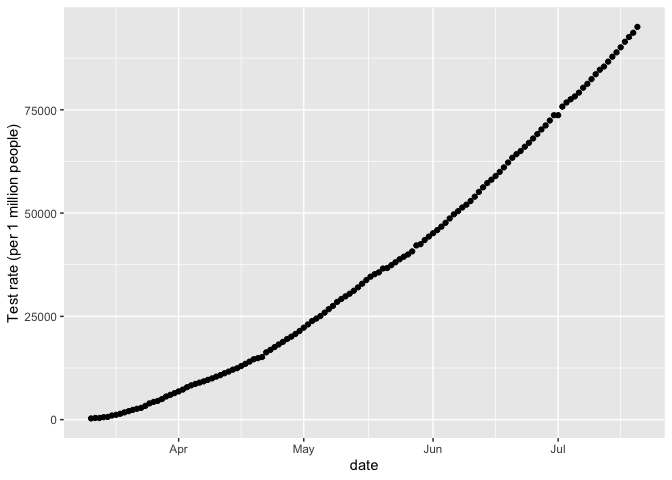
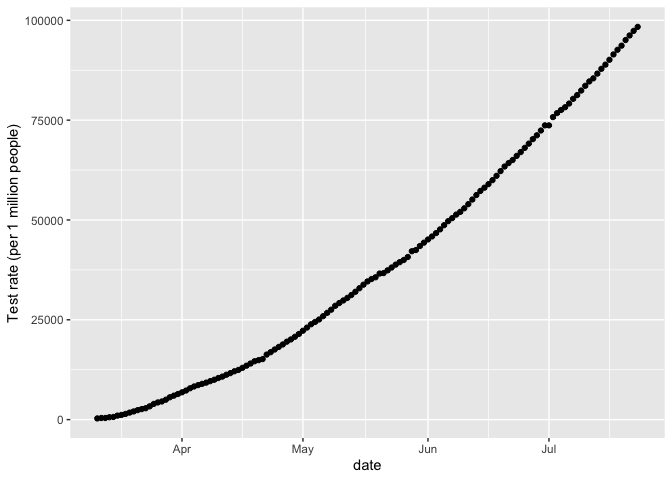
Update

diff --git a/Writeup.md b/Writeup.md
@@ -1,9 +1,7 @@
-Test Positivity Rate writeup
+Test Positivity Rate Writeup
 ================
 Geetha Jeyapragasan
 July 14 2020
-
-## Test Positivity Rates
 
 The test positivity rate (TPR) is the percentage of tests that are
 positive.For COVID-19, this metric is being used to evaluate testing
@@ -19,29 +17,62 @@ direct indicator of testing capacity. The test positivity rate has been
 used as a measure of prevalence for outbreaks that occur in regions with
 limited or non-existent health surveillance.
 
+## Factors that Affect the TPR
+
+1.  Type of tests included in metric. Some regions are not transparent
+    in the technologies used for COVID-19 tests, or aggregate PCR and
+    antibody tests making the data less meaningful.
+2.  Whether the numbers are \# of performed tests or \# of individuals
+    tested.
+3.  Whether negative results are included, and how pending results or
+    inconclusive results are reported.
+4.  Are tests from private labs included? Not all labs report to the
+    central authority, or are specifically not included in the testing
+    data (i.e. US CDC)
+5.  Testing eligibility criteria
+6.  Whether the time period of cumulative counts if daily counts are not
+    being reported.
+
 ### How the TPR is being used and interpreted
 
-* As of MAY 12, The WHO is currently advising reopening measures based on the TPR. 
-The test positivity rate should be below 5% for at least 14 days before reopening, suggesting a
-TPR between [3-12%](https://www.who.int/news-room/commentaries/detail/advice-on-the-use-of-point-of-care-immunodiagnostic-tests-for-covid-19) indicates a region is conducting adequate testing. There is a significant difference in TPR between countries, with Australia, South
-Korea, and Uruguay’s positivity rates below 1%, while Argentina and
-Mexico have a 28% and a 66% positivity rate respectively.
-
-* The TPR was used to compare the temporal trends and mitigation
-strategies of COVID-19 between [Seattle and
-Washington](https://jamanetwork.com/journals/jama/fullarticle/2766035).
-The paper concluded due to the constant testing volume over the study
-period, the TPR trend suggests early and aggressive physical distancing
-measures influenced the course of the outbreak. 
-* TPR as an good indicator
-of robust testing and outbreak control was [criticized in
-India](https://thewire.in/health/india-covid-19-testing-contradiction-rate)
-due to the extremely low testing volume (India is conducting 9.99 tests
-per 1000 people while Australia conducts 136 tests per 1000). Though low
-testing rates did not fully account for the low TPR, a low TPR in
-regions with low testing rates should be interpreted differently than
-regions with a high testing rate. 
-* In the state of Virginia, the [antibody test results were combined with the viral PCR tests affecting the TPR](https://www.theatlantic.com/health/archive/2020/05/covid-19-tests-combine-virginia/611620/). With the state using the low TPR to justify the loosening of lockdown restrictions,types of tests included in the metric should be considered when interpreting the value and used for decision making. 
+  - As of May 12, The WHO is currently advising reopening measures based
+    on the TPR. The test positivity rate should be below 5% for at least
+    14 days before reopening, suggesting a TPR between
+    [3-12%](https://www.who.int/news-room/commentaries/detail/advice-on-the-use-of-point-of-care-immunodiagnostic-tests-for-covid-19)
+    indicates a region is conducting adequate testing.
+  - The [CDC opening up
+    plan](https://www.cdc.gov/coronavirus/2019-ncov/downloads/php/CDC-Activities-Initiatives-for-COVID-19-Response.pdf)
+    uses the TPR to assess testing program robustness. The criteria
+    proposes a \<20% TPR to enter Phase 1, \<15% to enter Phase 2 and
+    \<10% to enter Phase 3 (maintaining these values for at least 14
+    days). \*\* Multi-day increases in TPR with stable or increasing
+    testing suggest potential a potential rebound that should be
+    investigated.
+  - The TPR was used to compare the temporal trends and mitigation
+    strategies of COVID-19 between [Seattle and
+    Washington](https://jamanetwork.com/journals/jama/fullarticle/2766035)
+    . The paper concluded due to the constant testing volume over the
+    study period, the TPR trend suggests early and aggressive physical
+    distancing measures influenced the course of the outbreak.
+  - TPR as an good indicator of robust testing and outbreak control was
+    [criticized in
+    India](https://thewire.in/health/india-covid-19-testing-contradiction-rate)
+    due to the extremely low testing volume (India is conducting 9.99
+    tests per 1000 people while Australia conducts 136 tests per 1000).
+    Though low testing rates did not fully account for the low TPR, a
+    low TPR in regions with low testing rates should be interpreted
+    differently than regions with a high testing rate.
+  - The [CDC’s initial
+    mixup](https://www.theatlantic.com/health/archive/2020/05/cdc-and-states-are-misreporting-covid-19-test-data-pennsylvania-georgia-texas/611935/)
+    of viral and antibody tests reported together caused positivity
+    rates to appear low. Several states such as Pennsylvania, Texas,
+    Georgia, Vermont, and Virginia have used the aggregated TPR to guide
+    reopening. In the state of Virginia, the antibody test results were
+    combined with the viral PCR tests affecting the TPR. With the state
+    using the low TPR to justify the loosening of lockdown
+    restrictions,types of tests included in the metric should be
+    considered when interpreting the value and used for decision making.
+    Virginia has since separated the tests following this article.
 
 The WHO recommendation for malaria program managers suggest the use of
 TPR instead of incidence rates as a measurement if the following 3
@@ -55,57 +86,64 @@ account, reporting completeness may be a significant barrier. The TPR is
 less sensitive to these factors, through it can still be distorted and
 misinterpreted.
 
-
 ``` r
 summary(national)
 ```
 
     ##                        prname         date               numconf      
-    ##  Canada                   :132   Min.   :2020-03-11   Min.   :   103  
-    ##  Alberta                  :  0   1st Qu.:2020-04-12   1st Qu.: 25338  
-    ##  British Columbia         :  0   Median :2020-05-15   Median : 75228  
-    ##  Manitoba                 :  0   Mean   :2020-05-15   Mean   : 63688  
-    ##  New Brunswick            :  0   3rd Qu.:2020-06-17   3rd Qu.: 99934  
-    ##  Newfoundland and Labrador:  0   Max.   :2020-07-20   Max.   :111113  
+    ##  Canada                   :135   Min.   :2020-03-11   Min.   :   103  
+    ##  Alberta                  :  0   1st Qu.:2020-04-13   1st Qu.: 26354  
+    ##  British Columbia         :  0   Median :2020-05-17   Median : 76991  
+    ##  Manitoba                 :  0   Mean   :2020-05-17   Mean   : 64765  
+    ##  New Brunswick            :  0   3rd Qu.:2020-06-19   3rd Qu.:100813  
+    ##  Newfoundland and Labrador:  0   Max.   :2020-07-23   Max.   :112659  
     ##  (Other)                  :  0                                        
-    ##     numprob         numdeaths         numtotal        numtested      
-    ##  Min.   :  0.00   Min.   :   2.0   Min.   :   103   Min.   :  11023  
-    ##  1st Qu.: 11.00   1st Qu.: 764.2   1st Qu.: 25356   1st Qu.: 433656  
-    ##  Median : 11.00   Median :5620.5   Median : 75238   Median :1253500  
-    ##  Mean   : 22.41   Mean   :4768.1   Mean   : 63710   Mean   :1406338  
-    ##  3rd Qu.: 11.25   3rd Qu.:8265.5   3rd Qu.: 99945   3rd Qu.:2264721  
-    ##  Max.   :833.00   Max.   :8858.0   Max.   :111124   Max.   :3573630  
-    ##                                                                      
+    ##     numprob        numdeaths         numtotal        numtested      
+    ##  Min.   :  0.0   Min.   :   2.0   Min.   :   103   Min.   :  11023  
+    ##  1st Qu.: 11.0   1st Qu.: 841.5   1st Qu.: 26372   1st Qu.: 446229  
+    ##  Median : 11.0   Median :5782.0   Median : 77002   Median :1300729  
+    ##  Mean   : 22.2   Mean   :4859.2   Mean   : 64788   Mean   :1456374  
+    ##  3rd Qu.: 12.5   3rd Qu.:8378.0   3rd Qu.:100824   3rd Qu.:2361172  
+    ##  Max.   :833.0   Max.   :8874.0   Max.   :112672   Max.   :3697322  
+    ##                                                                     
     ##    numrecover    percentrecover       ratetested       numtoday     
-    ##  Min.   :  230   Length:132         Min.   :  293   Min.   :   0.0  
-    ##  1st Qu.:25740   Class :character   1st Qu.:11536   1st Qu.: 355.2  
-    ##  Median :47824   Mode  :character   Median :33348   Median : 746.5  
-    ##  Mean   :44957                      Mean   :37413   Mean   : 841.3  
-    ##  3rd Qu.:65174                      3rd Qu.:60249   3rd Qu.:1257.5  
-    ##  Max.   :97474                      Max.   :95071   Max.   :2760.0  
+    ##  Min.   :  230   Length:135         Min.   :  293   Min.   :   0.0  
+    ##  1st Qu.:26505   Class :character   1st Qu.:11871   1st Qu.: 363.5  
+    ##  Median :48892   Mode  :character   Median :34604   Median : 722.0  
+    ##  Mean   :46448                      Mean   :38744   Mean   : 834.0  
+    ##  3rd Qu.:65850                      3rd Qu.:62815   3rd Qu.:1252.5  
+    ##  Max.   :98519                      Max.   :98361   Max.   :2760.0  
     ##  NA's   :28                                                         
-    ##   percentoday        ratetotal        ratedeaths      deathstoday    
-    ##  Min.   : 0.0000   Min.   :  0.27   Min.   : 0.005   Min.   :  0.00  
-    ##  1st Qu.: 0.4175   1st Qu.: 67.46   1st Qu.: 2.033   1st Qu.: 10.75  
-    ##  Median : 1.5550   Median :200.16   Median :14.953   Median : 50.00  
-    ##  Mean   : 6.0755   Mean   :169.49   Mean   :12.685   Mean   : 67.09  
-    ##  3rd Qu.: 5.9000   3rd Qu.:265.88   3rd Qu.:21.989   3rd Qu.:116.00  
-    ##  Max.   :46.2300   Max.   :295.63   Max.   :23.565   Max.   :222.00  
-    ##                                                                      
+    ##   percentoday       ratetotal        ratedeaths     deathstoday    
+    ##  Min.   : 0.000   Min.   :  0.27   Min.   : 0.01   Min.   :  0.00  
+    ##  1st Qu.: 0.415   1st Qu.: 70.16   1st Qu.: 2.24   1st Qu.: 10.00  
+    ##  Median : 1.500   Median :204.85   Median :15.38   Median : 49.00  
+    ##  Mean   : 5.951   Mean   :172.36   Mean   :12.93   Mean   : 65.72  
+    ##  3rd Qu.: 5.635   3rd Qu.:268.23   3rd Qu.:22.29   3rd Qu.:114.50  
+    ##  Max.   :46.230   Max.   :299.75   Max.   :23.61   Max.   :222.00  
+    ##                                                                    
     ##   percentdeath    testedtoday    recoveredtoday    percentactive  
     ##  Min.   :0.790   Min.   :    0   Min.   :    0.0   Min.   : 3.78  
-    ##  1st Qu.:3.015   1st Qu.:16681   1st Qu.:  368.8   1st Qu.:29.56  
-    ##  Median :7.460   Median :27068   Median :  689.5   Median :42.88  
-    ##  Mean   :5.836   Mean   :27073   Mean   :  991.1   Mean   :53.80  
-    ##  3rd Qu.:8.170   3rd Qu.:36788   3rd Qu.:  919.5   3rd Qu.:84.27  
+    ##  1st Qu.:3.190   1st Qu.:16768   1st Qu.:  367.5   1st Qu.:28.96  
+    ##  Median :7.480   Median :27304   Median :  680.0   Median :42.43  
+    ##  Mean   :5.882   Mean   :27388   Mean   :  973.1   Mean   :52.71  
+    ##  3rd Qu.:8.170   3rd Qu.:37648   3rd Qu.:  908.0   3rd Qu.:83.67  
     ##  Max.   :8.330   Max.   :78091   Max.   :23853.0   Max.   :99.21  
     ##                                  NA's   :28                       
+    ##    numactive       rateactive    numtotal_last14 numdeaths_last14
+    ##  Min.   :  101   Min.   : 0.27   Min.   : 2715   Min.   :  25.0  
+    ##  1st Qu.:15595   1st Qu.:41.48   1st Qu.: 5199   1st Qu.: 260.2  
+    ##  Median :27784   Median :73.91   Median :12468   Median : 850.0  
+    ##  Mean   :23114   Mean   :61.49   Mean   :12503   Mean   :1011.7  
+    ##  3rd Qu.:31700   3rd Qu.:84.33   3rd Qu.:18799   3rd Qu.:1616.0  
+    ##  Max.   :35001   Max.   :93.11   Max.   :24688   Max.   :2311.0  
+    ##                                  NA's   :13      NA's   :13      
     ##       tpr       
     ##  Min.   :0.888  
-    ##  1st Qu.:3.507  
-    ##  Median :4.845  
-    ##  Mean   :4.590  
-    ##  3rd Qu.:5.927  
+    ##  1st Qu.:3.428  
+    ##  Median :4.776  
+    ##  Mean   :4.557  
+    ##  3rd Qu.:5.912  
     ##  Max.   :6.742  
     ## 
 
@@ -115,4 +153,16 @@ summary(national)
 
 ### Canada Testing Rates
 
-![](Writeup_files/figure-gfm/pressure-1.png)<!-- -->
+![](Writeup_files/figure-gfm/pressure-1.png)<!-- --> \#\#\# Test Rate
+against TPR
+
+``` r
+print(
+  ggplot(national, aes(ratetested, tpr)) + 
+  geom_point() + xlab("Test Rate") + 
+  ylab("Test Positivity Rate") +
+  ggtitle("Test rate against test positivity rate")
+)
+```
+
+![](Writeup_files/figure-gfm/unnamed-chunk-1-1.png)<!-- -->

diff --git a/README.md b/README.md
@@ -5,6 +5,7 @@ Potential Research Questions
     * How can we interpret the TPR in countries with inconsistent general outpatient attendance, testing practices, and reporting completeness (based on WHO suggestions for when to use TPR instead of incidence rates to assess transmission)? 
 * How can the test positivity rate of a region be used inform decisions regarding testing and interventions? 
 * How did the use of TPR as a key metric used for re-opening guidelines affect testing methods and population selected for testing? 
+
 Original Questions
 * How we interpret test-positivity rates?
 * What factors about _testing_ policy affect this interpretation?
